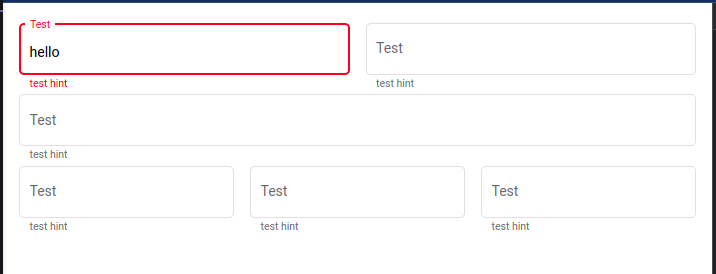
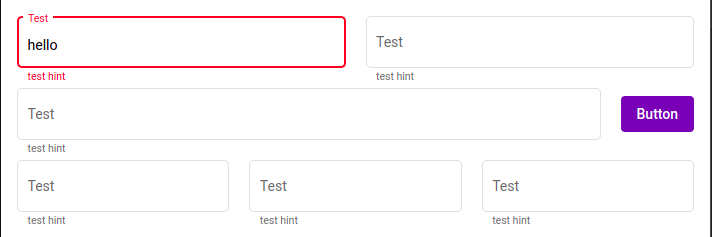
improvements

diff --git a/src/app/app.module.ts b/src/app/app.module.ts
@@ -2,6 +2,7 @@ import { NgModule } from '@angular/core';
 import { BrowserModule } from '@angular/platform-browser';
 import { MatFormFieldModule } from '@angular/material/form-field';
 import { MatInputModule } from '@angular/material/input';
+import { MatButtonModule } from '@angular/material/button';
 
 import { AppComponent } from './app.component';
 import { NoopAnimationsModule } from '@angular/platform-browser/animations';
@@ -14,6 +15,7 @@ import { ReactiveFormsModule } from '@angular/forms';
     NoopAnimationsModule,
     MatFormFieldModule,
     MatInputModule,
+    MatButtonModule,
     ReactiveFormsModule,
   ],
   providers: [],

diff --git a/src/app/app.component.html b/src/app/app.component.html
@@ -13,11 +13,15 @@
     </mat-form-field>
   </div>
 
-  <mat-form-field appearance="outline">
-    <mat-label>Test</mat-label>
-    <input matInput type="text" />
-    <mat-hint>test hint</mat-hint>
-  </mat-form-field>
+  <div class="form-row">
+    <mat-form-field class="flex-1" appearance="outline">
+      <mat-label>Test</mat-label>
+      <input matInput type="text" />
+      <mat-hint>test hint</mat-hint>
+    </mat-form-field>
+
+    <button mat-flat-button color="primary">Button</button>
+  </div>
 
   <div class="form-row">
     <mat-form-field class="flex-1" appearance="outline">

diff --git a/src/styles.scss b/src/styles.scss
@@ -14,14 +14,14 @@ body {
 
 @mixin form-group {
   display: flex;
-  gap: 16px;
+  gap: 20px;
 }
 
 // form-group
 .mat-form-field {
   &-wrapper {
     padding: 0 !important;
-    margin-bottom: 0 !important;
+    margin: 0 !important;
   }
 
   &-subscript-wrapper {
@@ -38,6 +38,10 @@ body {
 
   &-col {
     flex-direction: column;
+  }
+
+  &-row {
+    align-items: center;
   }
 }
 
